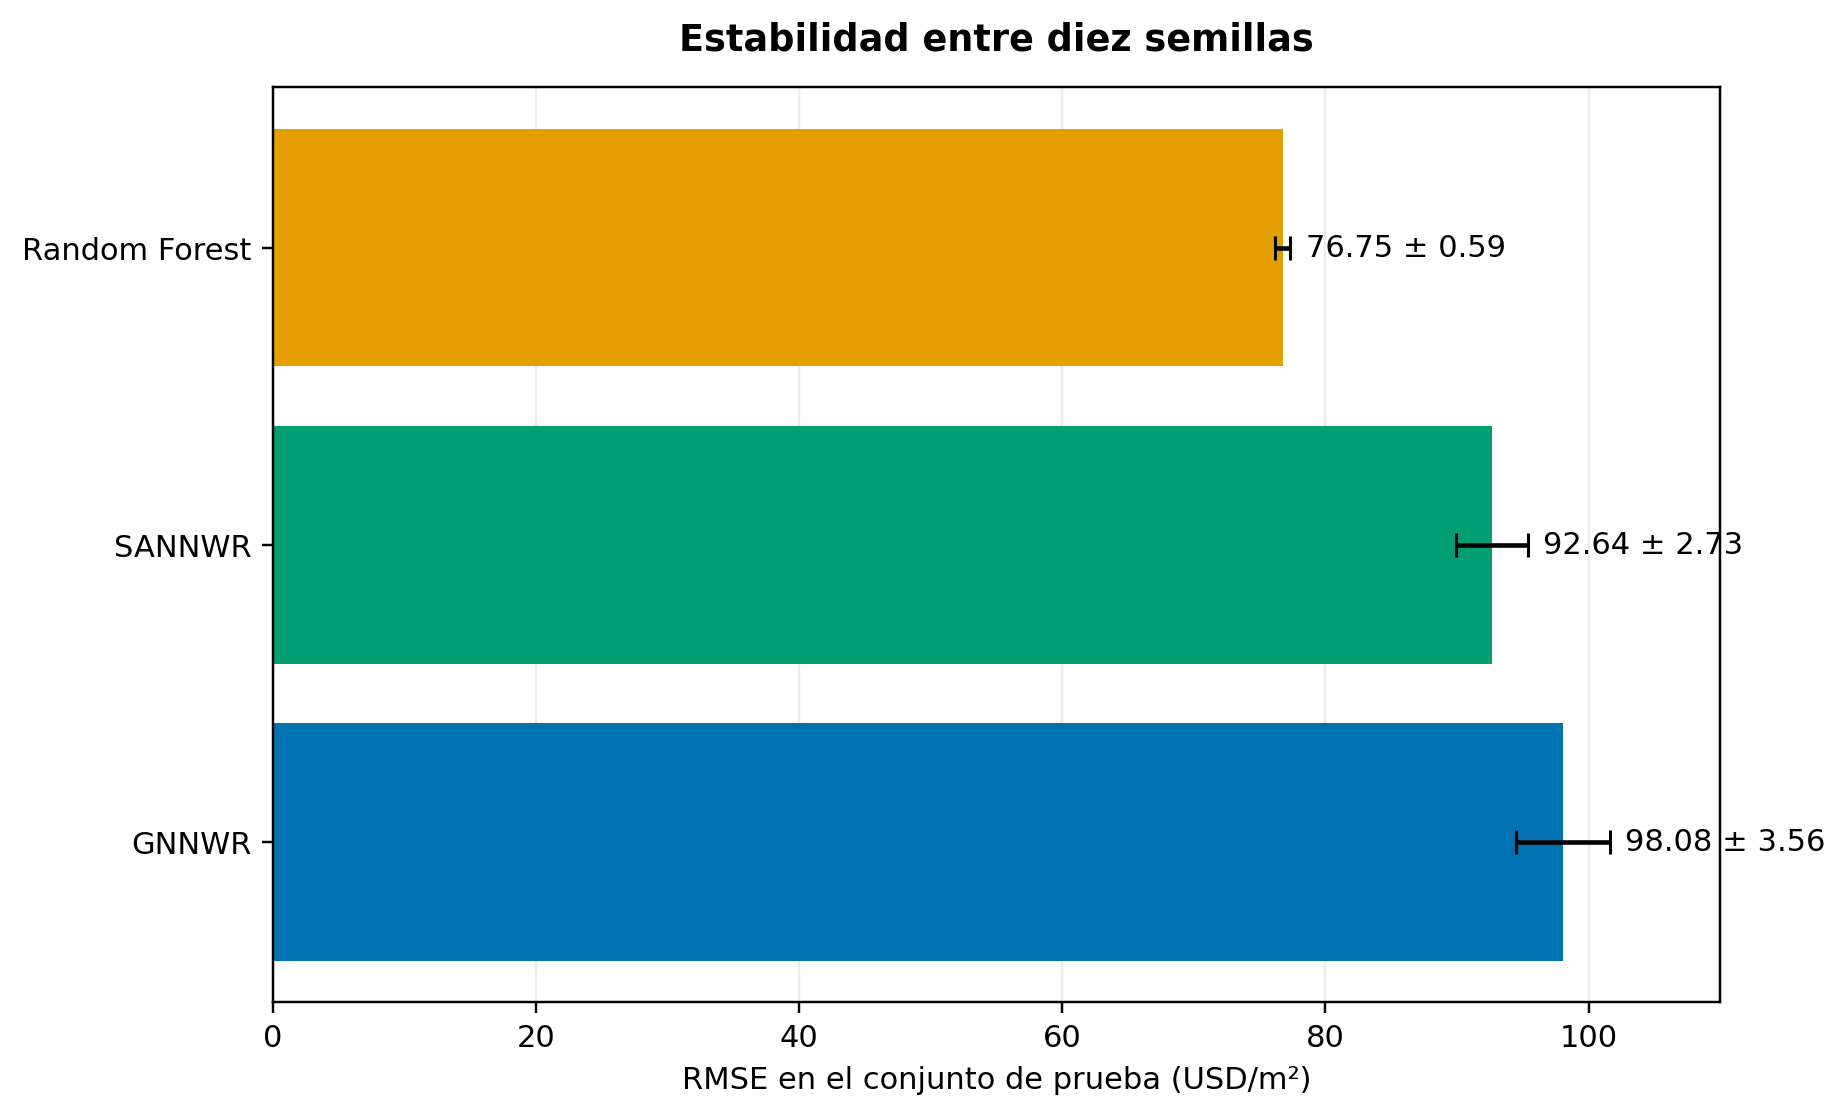
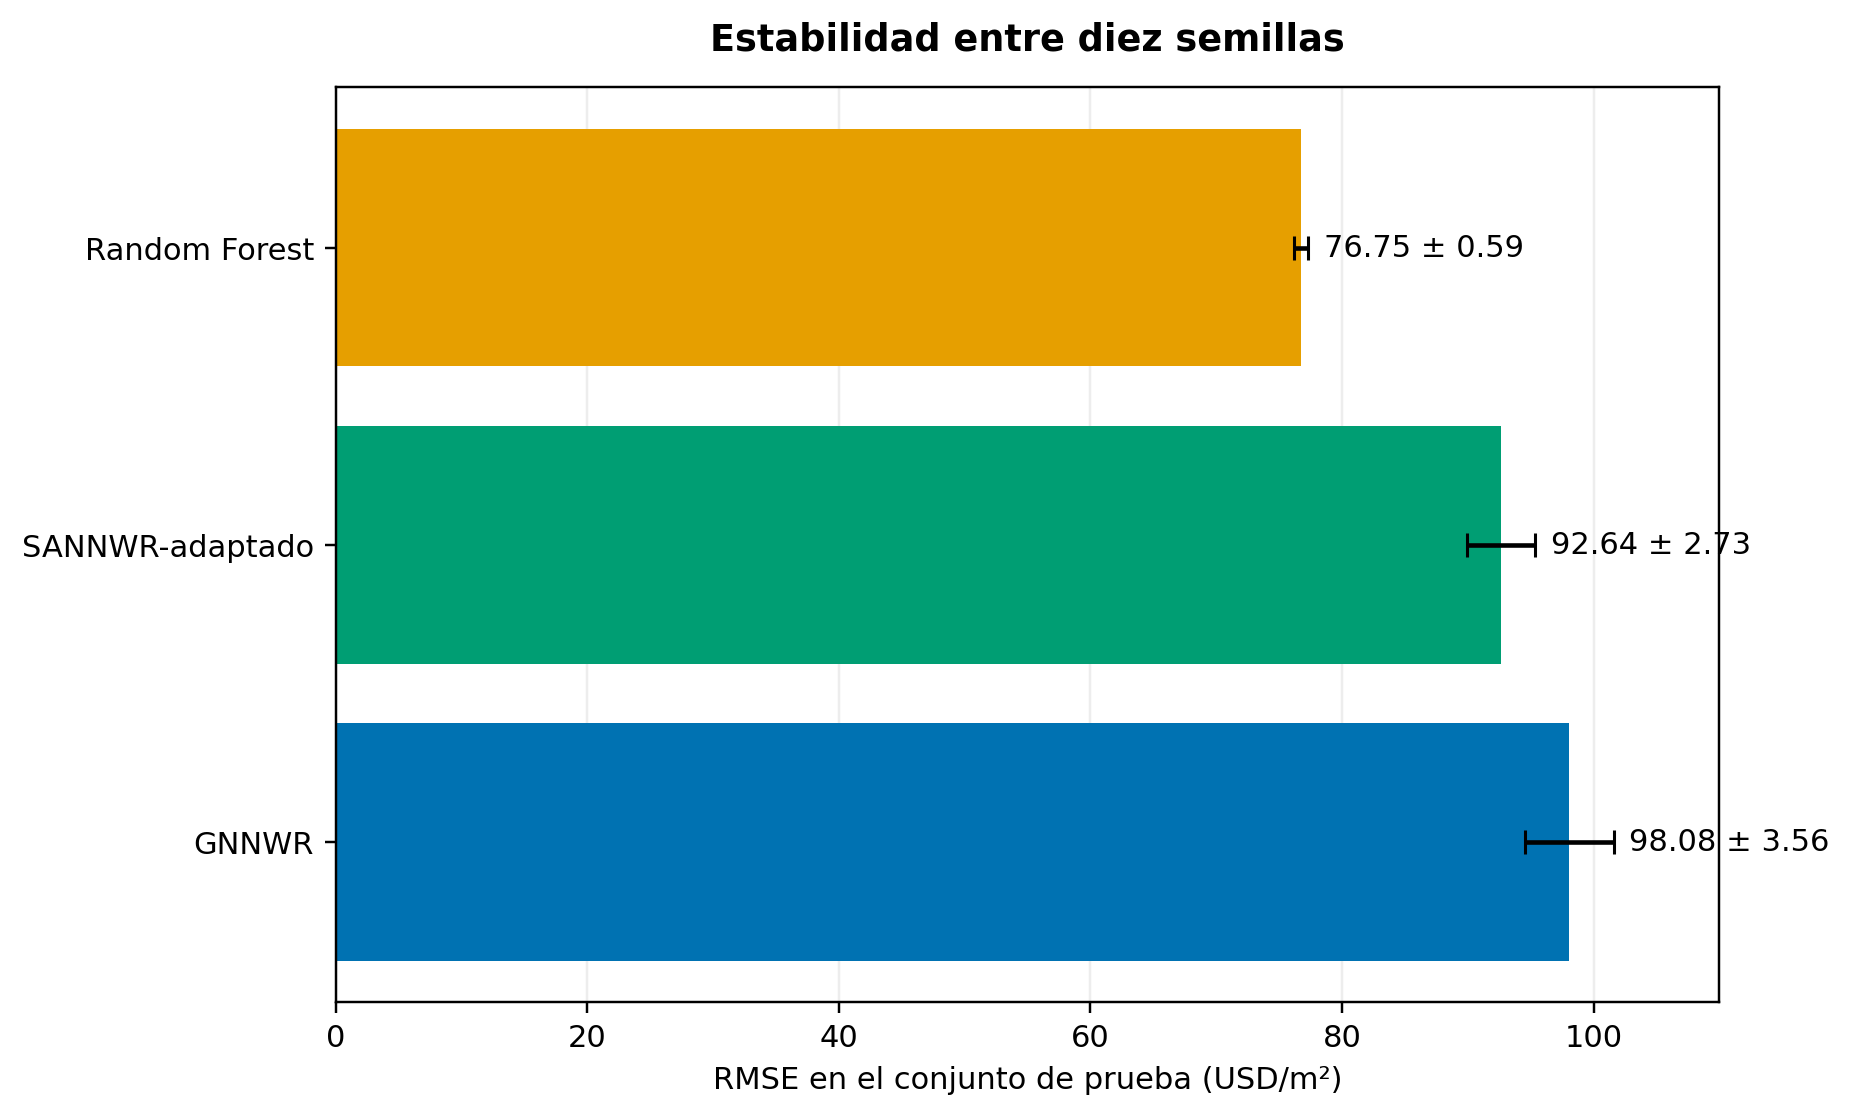
Rotula SANNWR-adaptado en la portada del repositorio
El README y las dos figuras publicas llamaban "SANNWR" al modelo
evaluado, sin aclarar en ningun sitio que es la variante de peso fijo
0,5/0,5 y no la arquitectura de Ni et al. (2022). Es justo la confusion
que la primera observacion del revisor pedia evitar, y el repositorio
acompana a la tesis como evidencia. Se anade la nota de nomenclatura
bajo la tabla de resultados y se separa la clave de datos, que sigue
siendo SANNWR en los CSV y en el codigo, de la etiqueta que se dibuja.

diff --git a/figures/publication/generate_summary_figures.py b/figures/publication/generate_summary_figures.py
@@ -15,6 +15,10 @@ OUTPUT = RESULTS / "figures"
 OUTPUT.mkdir(parents=True, exist_ok=True)
 
 MODEL_ORDER = ["Random Forest", "SANNWR", "GWR", "GNNWR", "OLS"]
+# La clave de los CSV es "SANNWR"; lo que se dibuja es "SANNWR-adaptado",
+# porque lo evaluado es la variante de peso fijo y no la arquitectura de
+# Ni et al. (2022), que no se implemento como modelo principal.
+ETIQUETA = {m: ("SANNWR-adaptado" if m == "SANNWR" else m) for m in MODEL_ORDER}
 COLORS = {
     "Random Forest": "#E69F00",
     "SANNWR": "#009E73",
@@ -66,7 +70,7 @@ def validation_comparison() -> None:
 
     ax.set_title("El modelo seleccionado cambia con el esquema de validación", weight="bold", pad=14)
     ax.set_ylabel("RMSE (USD/m²)")
-    ax.set_xticks(x, MODEL_ORDER)
+    ax.set_xticks(x, [ETIQUETA[m] for m in MODEL_ORDER])
     ax.set_ylim(0, 225)
     ax.grid(axis="y", alpha=0.22)
     ax.set_axisbelow(True)
@@ -89,7 +93,8 @@ def stability() -> None:
     frame = pd.read_csv(RESULTS / "estabilidad_conjunto_prueba.csv")
     fig, ax = plt.subplots(figsize=(8.5, 5.2))
     colors = [COLORS[name] for name in frame["model"]]
-    bars = ax.barh(frame["model"], frame["rmse_mean"], xerr=frame["rmse_sd"], color=colors, capsize=4)
+    bars = ax.barh([ETIQUETA[m] for m in frame["model"]], frame["rmse_mean"],
+                   xerr=frame["rmse_sd"], color=colors, capsize=4)
     ax.bar_label(bars, labels=[f"{m:.2f} ± {s:.2f}" for m, s in zip(frame["rmse_mean"], frame["rmse_sd"])], padding=5)
     ax.invert_yaxis()
     ax.set_xlim(0, 110)

diff --git a/README.md b/README.md
@@ -15,7 +15,7 @@ Código y resultados agregados de la tesis:
 
 ## Idea central
 
-El repositorio compara cinco modelos (OLS, GWR, Random Forest, GNNWR y SANNWR) bajo esquemas de evaluación con separación geográfica creciente. El aporte no es una arquitectura nueva: es un protocolo reproducible que muestra que el modelo aparentemente ganador cambia cuando entrenamiento y prueba dejan de estar espacialmente entremezclados.
+El repositorio compara cinco modelos (OLS, GWR, Random Forest, GNNWR y SANNWR-adaptado) bajo esquemas de evaluación con separación geográfica creciente. El aporte no es una arquitectura nueva: es un protocolo reproducible que muestra que el modelo aparentemente ganador cambia cuando entrenamiento y prueba dejan de estar espacialmente entremezclados.
 
 ![Comparación de esquemas de validación](results/figures/validation_comparison.png)
 
@@ -24,19 +24,21 @@ El repositorio compara cinco modelos (OLS, GWR, Random Forest, GNNWR y SANNWR) b
 | Modelo | Conjunto de prueba RMSE | Validación cruzada aleatoria RMSE | Validación por bloques espaciales RMSE |
 |---|---:|---:|---:|
 | Random Forest | **76.99** | **80.9 ± 3.3** | 108.8 ± 60.4 |
-| SANNWR | 92.70 | 93.5 ± 5.4 | 98.7 ± 50.6 |
+| SANNWR-adaptado | 92.70 | 93.5 ± 5.4 | 98.7 ± 50.6 |
 | GWR | 98.15 | 97.2 ± 8.0 | 108.5 ± 58.3 |
 | GNNWR | 98.76 | 91.4 ± 21.8 | **98.5 ± 53.1** |
 | OLS | 139.01 | 141.7 ± 7.5 | 135.8 ± 74.1 |
 
 Métricas en USD/m². El conjunto de prueba usa retransformación con *smearing* de Duan. En la validación por bloques espaciales, la dispersión corresponde a los cinco bloques territoriales; no debe confundirse con la variación entre semillas.
 
+**SANNWR-adaptado** designa lo que este repositorio entrena y mide: la propuesta de Ni et al. (2022) con la combinación de distancia espacial y de atributos fijada en 0,5/0,5 en vez de aprendida. Ninguna cifra de aquí valida la arquitectura publicada, que no se implementó como modelo principal. En los CSV y en el código la columna conserva el nombre corto `SANNWR`.
+
 Hallazgos:
 
 - Random Forest domina la interpolación, sin usar coordenadas.
 - Al pasar del conjunto de prueba a la validación por bloques espaciales, su RMSE aumenta 41.3 % y cae al tercer puesto compartido.
 - GNNWR encabeza la validación por bloques espaciales y es el único modelo competitivo que no se degrada respecto del conjunto de prueba.
-- Con solo cinco regiones, la ventaja de GNNWR/SANNWR frente a Random Forest no alcanza significancia robusta: se reporta como tendencia, no como superioridad establecida.
+- Con solo cinco regiones, la ventaja de GNNWR/SANNWR-adaptado frente a Random Forest no alcanza significancia robusta: se reporta como tendencia, no como superioridad establecida.
 - Ningún modelo elimina la autocorrelación residual.
 
 Las tablas canónicas están en [`results/`](results/) y los resultados agregados de cada ejecución en [`results/raw/`](results/raw/). No se publican predicciones ni errores por predio.
